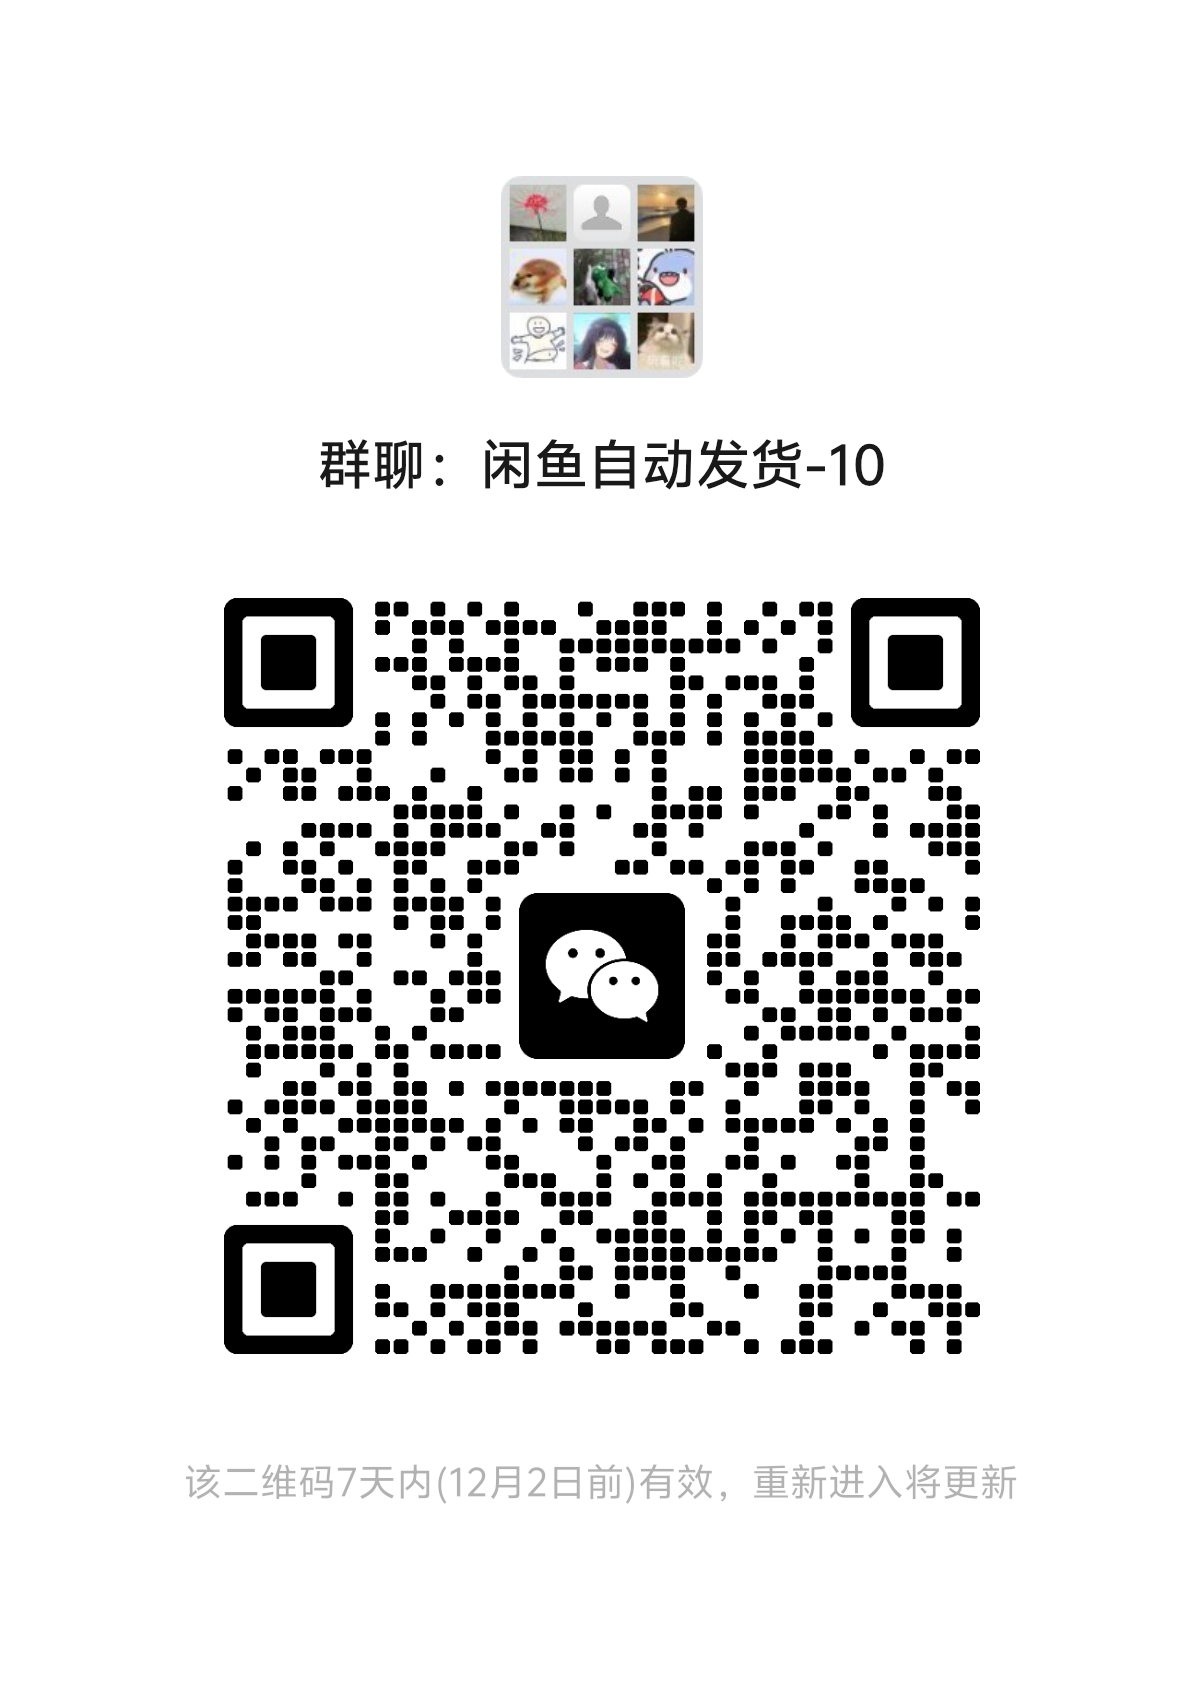
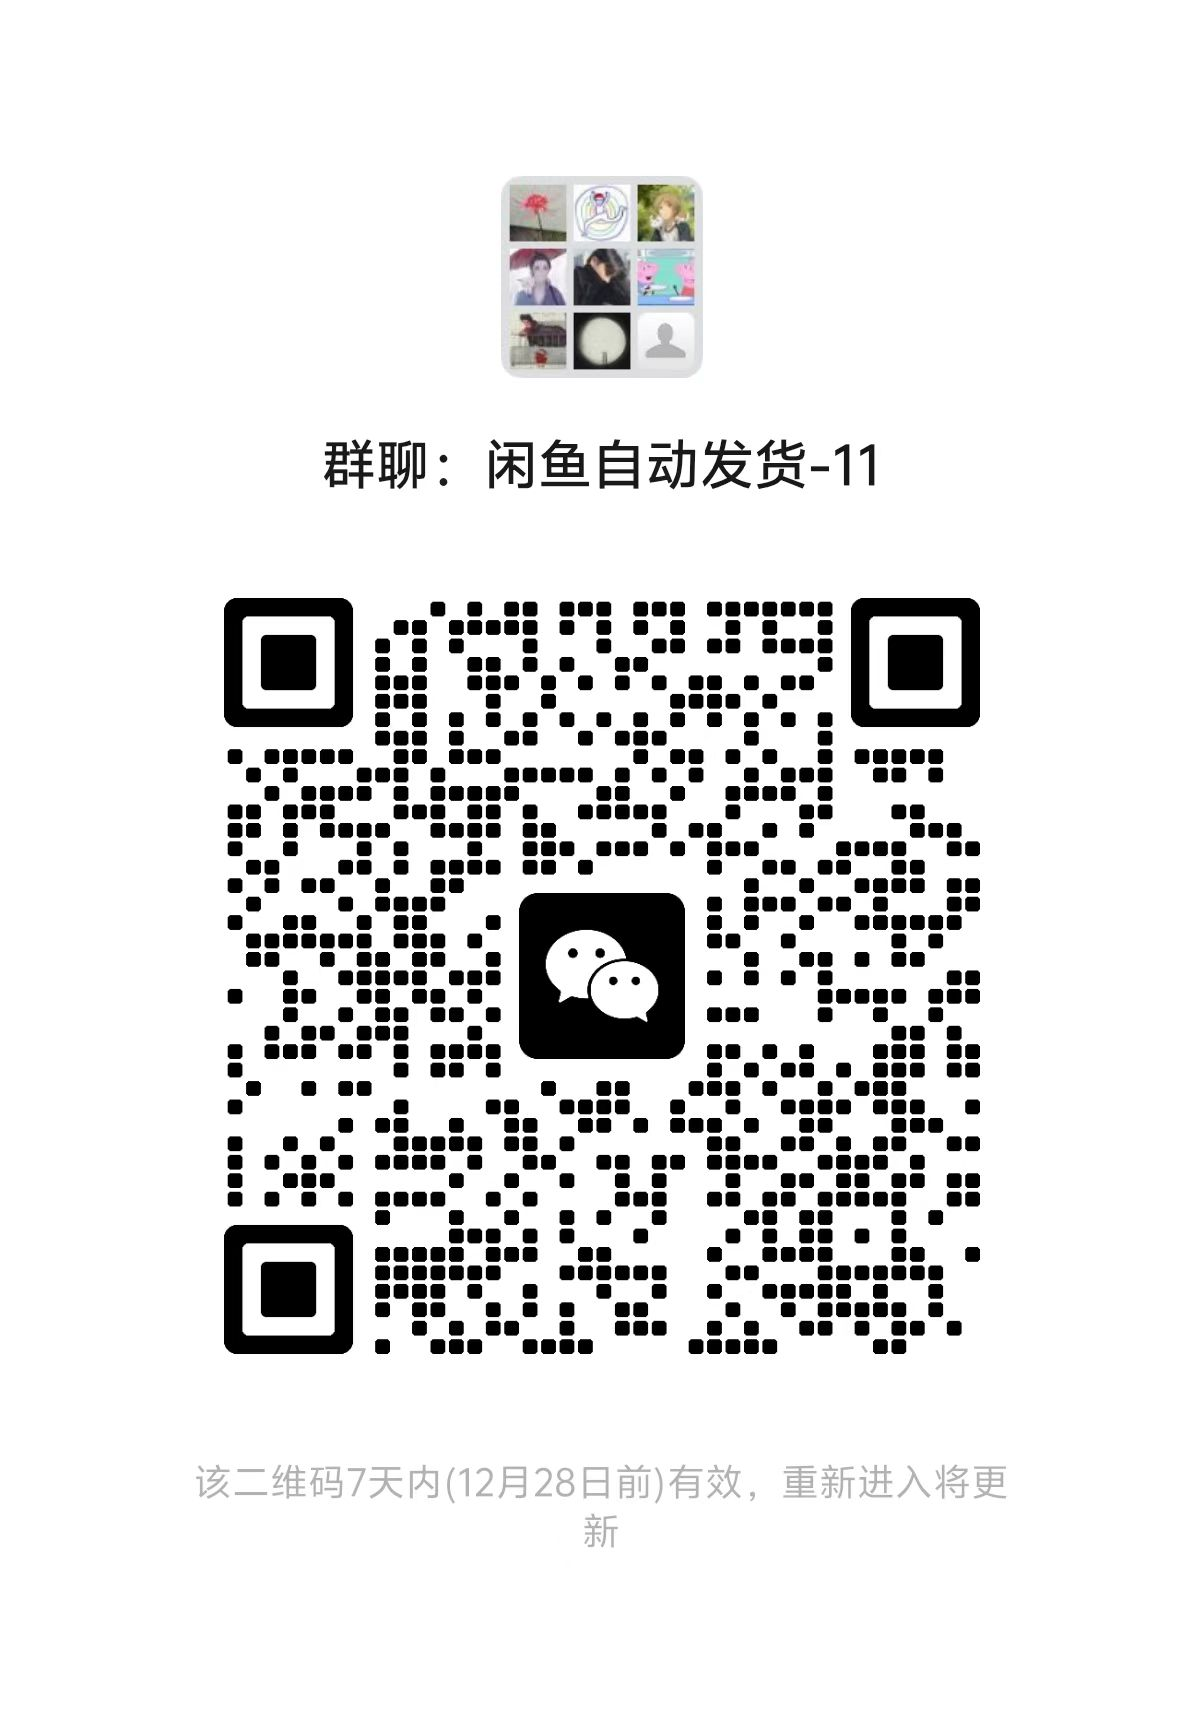
Update README.md

diff --git a/README.md b/README.md
@@ -1,5 +1,10 @@
 # 爱用不用，风险自担！！！爱用不用，风险自担！！！爱用不用，风险自担！！！
 
+## 交流群
+
+| 微信群 | 微信群1 | QQ群 |
+|:---:|:---:|:---:|
+| ![微信群](static/wechat-group.png) | ![微信群1](static/wechat-group1.png) | ![QQ群](static/qq-group.png) |
 
 # xianyu-auto-reply 安全漏洞披露报告
 
